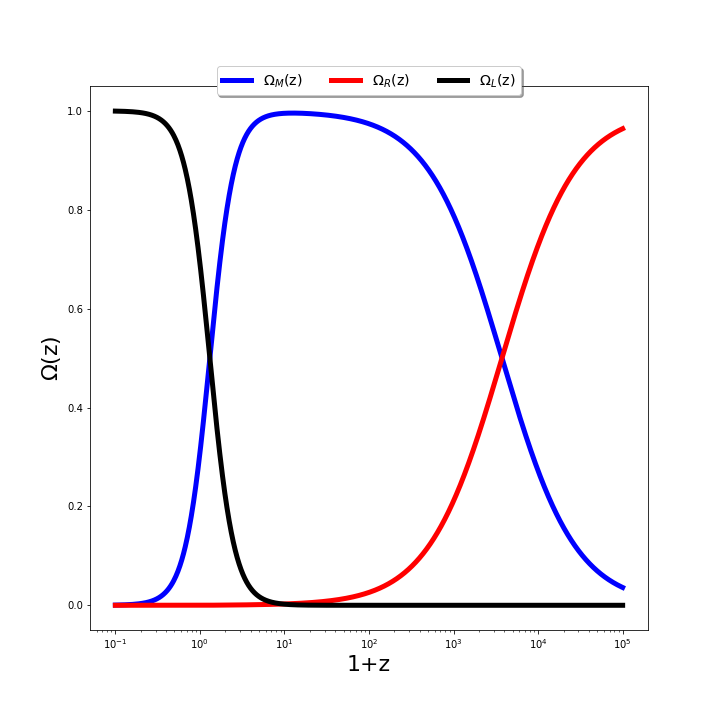
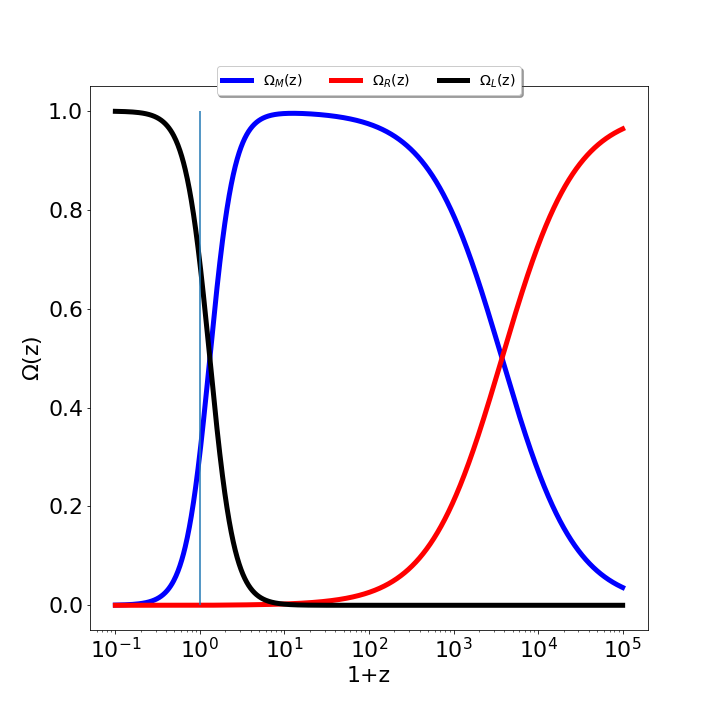
Updating Lab 10

diff --git a/Lab10/Lab10.py b/Lab10/Lab10.py
@@ -315,7 +315,8 @@ if __name__ == '__main__':
     label_size = 22
     matplotlib.rcParams['xtick.labelsize'] = label_size 
     matplotlib.rcParams['ytick.labelsize'] = label_size
-
+    
+    plt.vlines(1,0,1,linestyle = '-')
 
     legend = ax.legend(loc='upper center', fontsize='x-large', 
                        bbox_to_anchor=(0.5, 1.05),ncol=3, fancybox=True, shadow=True)
@@ -330,7 +331,11 @@ if __name__ == '__main__':
     # 
     # 
     # 
-
+    idx = np.where(OmegaR_z > OmegaM_z)
+    
+    zRad = zrange[idx[0][0]]
+    
+    print(zRad)
 
 
 
@@ -338,6 +343,12 @@ if __name__ == '__main__':
 
     #  At what approximate redshift does Dark Energy dominate?   
     # 
+
+    idx1 = np.where(OmegaL_z > OmegaR_z)
+    
+    zdAR = zrange[idx1[0][0]]
+    
+    print(zdAR)
 
 
 
